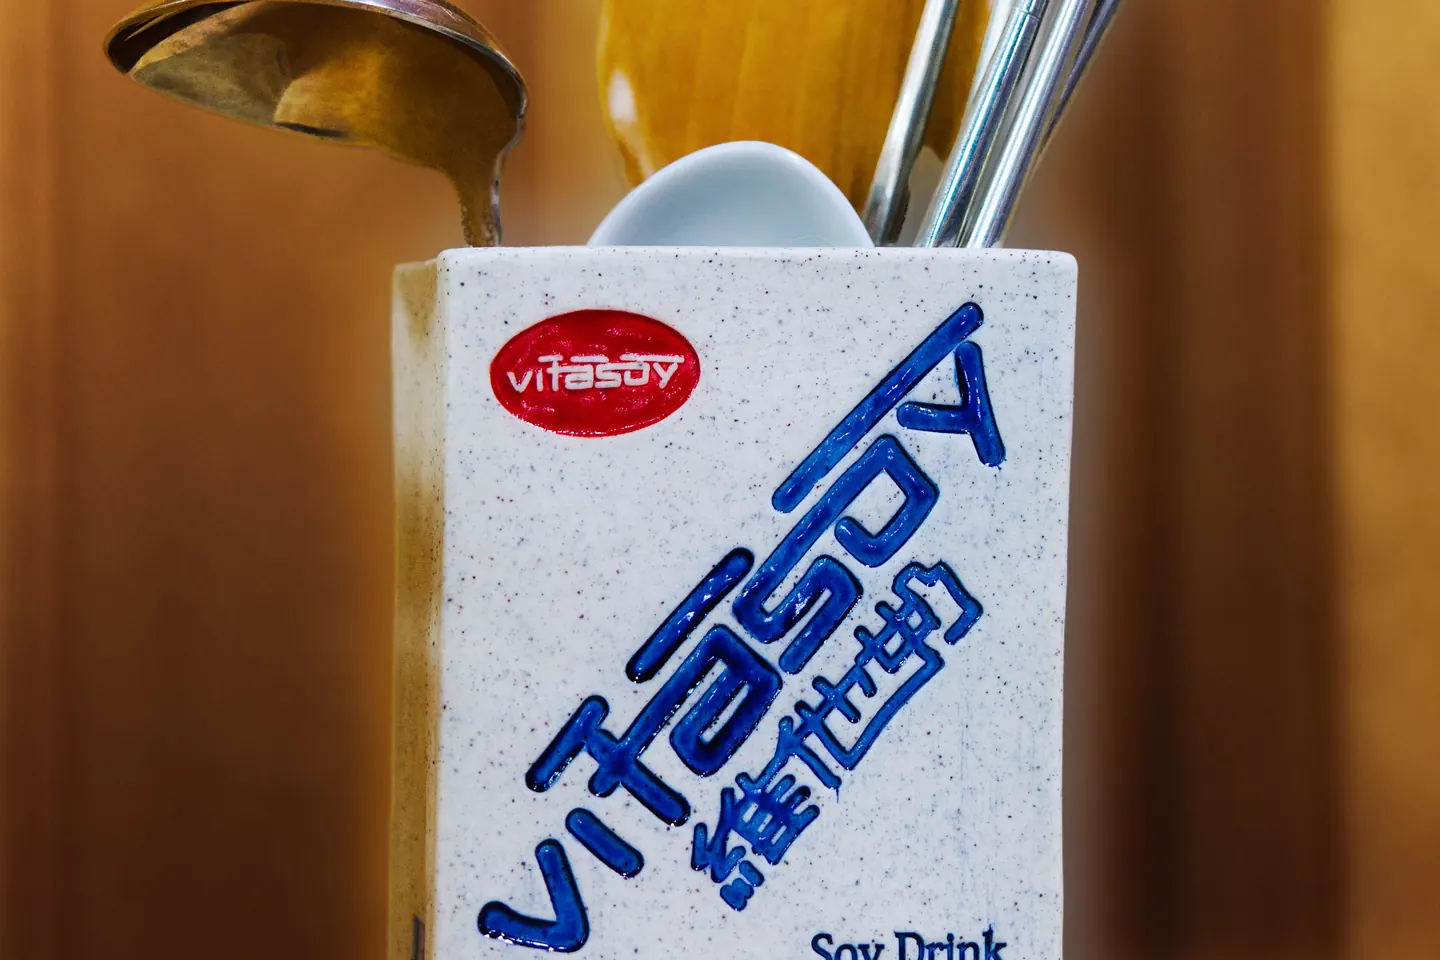
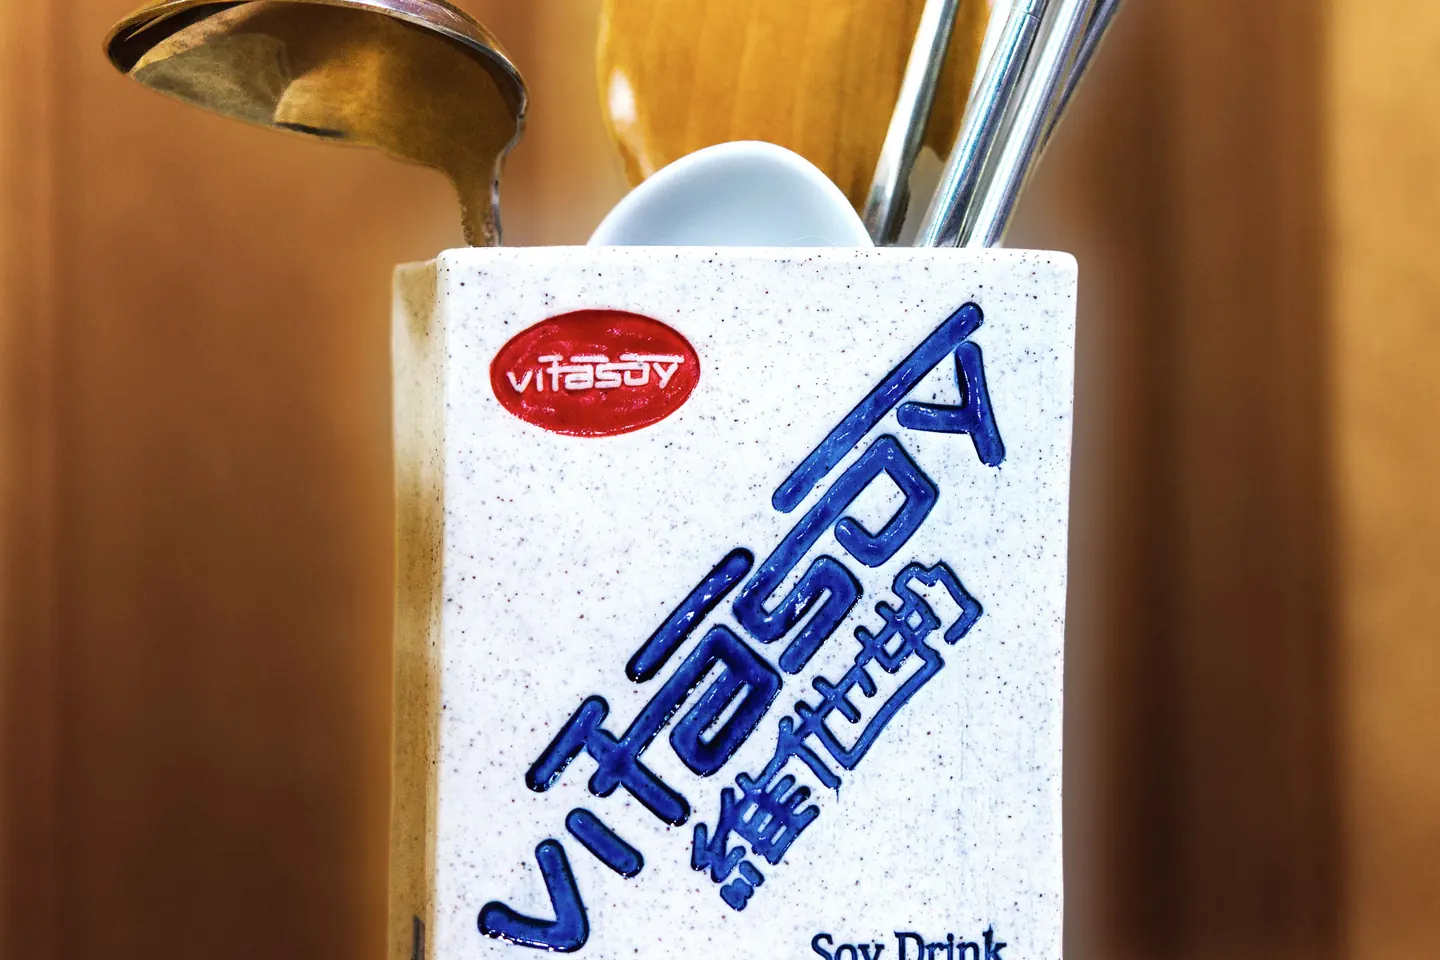
fix: brighten the tracks edit, and drop file sizes from the labels
The edit read too close to the other two versions. It is now the owner's
export brightened slightly in scripts/photos.mjs, at their request. The
file sizes added to the tracks labels are removed.

diff --git a/src/components/demo/TrackStack.tsx b/src/components/demo/TrackStack.tsx
@@ -47,22 +47,15 @@ const OFFSET = { x: 5.8, y: -8.6 };
  * and contradict the sentence beside the stack. The extensions are the page's
  * one set (`trackExtension`), the same the hero prints. Ratings are per file,
  * as they are in the app, so the versions may differ.
- *
- * Sizes are the real files', as Finder reports them: the .ORF, the camera's
- * JPEG inside it, and the owner's Affinity document. The edit is the only one
- * that is not a picture but a working file, and its size says so where the
- * picture cannot: the browser can only show an export of it.
  */
 const RATINGS: Record<TrackName, number> = { edit: 5, jpg: 3, raw: 4 };
-
-const SIZES: Record<TrackName, string> = { edit: "141 MB", jpg: "927 KB", raw: "14.5 MB" };
 
 export const TRACK_META = Object.fromEntries(
   trackOrder.map((track) => [
     track,
-    { label: `522.${trackExtension[track]}`, rating: RATINGS[track], size: SIZES[track] },
+    { label: `522.${trackExtension[track]}`, rating: RATINGS[track] },
   ]),
-) as Record<TrackName, { label: string; rating: number; size: string }>;
+) as Record<TrackName, { label: string; rating: number }>;
 
 export function TrackStack() {
   const [active, setActive] = useState<TrackName>("raw");
@@ -127,7 +120,7 @@ export function TrackStack() {
             >
               <PhotoFrame
                 className="h-full w-full rounded-[10px]"
-                frameNumber={`${TRACK_META[track].label} · ${TRACK_META[track].size}`}
+                frameNumber={TRACK_META[track].label}
                 rating={TRACK_META[track].rating}
                 size="large"
                 // The frame is 92% of its column: most of the page below lg,

diff --git a/src/lib/photos.ts b/src/lib/photos.ts
@@ -72,7 +72,8 @@ export const photos = Object.fromEntries(photoIds.map((id) => [id, file(id)])) a
  *
  * - RAW: Apple's default development of the camera's .ORF.
  * - JPG: the camera's own JPEG of the frame, which Olympus embeds in the .ORF.
- * - EDIT: the owner's graded export of their Affinity document. The .af itself
+ * - EDIT: the owner's graded export of their Affinity document, brightened
+ *   slightly at their request so it reads as its own version. The .af itself
  *   has no browser rendering, so the export is what stands for it.
  *
  * The RAW and the camera's JPEG look close, because Apple develops a RAW with

diff --git a/DESIGN.md b/DESIGN.md
@@ -321,7 +321,7 @@ The app's track switcher. It appears in the hero and the Photo tracks row.
 - Most frames are unrated (`rating: null`).
 - Each section shows its own photos, and no photo appears in two sections; the fast-performance strip is the exception, because it is every photo on the page (`galleryStrip()`: the set in one seeded order, repeated, so a photo recurs six rows later and never twice in the window). `photos.test.ts` guards both.
 - Photos load lazily, except the hero's (the first thing on the page) and the strip's, which all load together as its window approaches: a frame clipped by the window counts as off-screen, so left to the browser each row would fetch only as it scrolled in.
-- **Assets.** `scripts/photos.mjs` makes them from the owner's originals, which stay out of the repo: a recorded 3:2 crop per photo, 480px WebP (the tracks shot at 720 and 1440), camera metadata stripped. The tracks row is three real renderings of one shot: RAW is Apple's default development of the .ORF, JPG is the camera's own JPEG embedded in the .ORF, and EDIT is the owner's graded export of their Affinity document (the .af has no browser rendering). The RAW and the camera JPEG look close, since Apple develops with the camera's defaults; the edit is where the picture changes. Each tracks label carries the real file's size (`522.af · 141 MB`), which says what the picture cannot: the edit is a heavy working file.
+- **Assets.** `scripts/photos.mjs` makes them from the owner's originals, which stay out of the repo: a recorded 3:2 crop per photo, 480px WebP (the tracks shot at 720 and 1440), camera metadata stripped. The tracks row is three real renderings of one shot: RAW is Apple's default development of the .ORF, JPG is the camera's own JPEG embedded in the .ORF, and EDIT is the owner's graded export of their Affinity document (the .af has no browser rendering), brightened in the script at the owner's request so it reads as distinct at a glance. The RAW and the camera JPEG look close, since Apple develops with the camera's defaults. Labels carry the frame number and extension only; file sizes were tried and dropped.
 
 ### App Window
 

diff --git a/.impeccable/surfaces/src-pages-index-astro.md b/.impeccable/surfaces/src-pages-index-astro.md
@@ -146,8 +146,9 @@ against these, not flag them as drift.
 - **Tracks: three real renderings of one shot.** RAW developed from the .ORF,
   JPG the camera's own JPEG embedded in it (the user's choice over a separate
   in-camera file), EDIT the user's graded export of the Affinity document.
-  The edit extension is `.af`, not `.psd`, page-wide, and the tracks labels
-  carry the real file sizes (14.5 MB, 927 KB, 141 MB).
+  The edit is brightened slightly at the user's request, so it reads as its
+  own version. The edit extension is `.af`, not `.psd`, page-wide. File sizes
+  on the labels were tried and rejected by the user.
 - **Chrome on frosted backings.** The frame number and rating pips sit on
   small backings of translucent warm ink with a backdrop blur, the number in
   white; the track dot takes a soft white ring. Opaque white backings came
